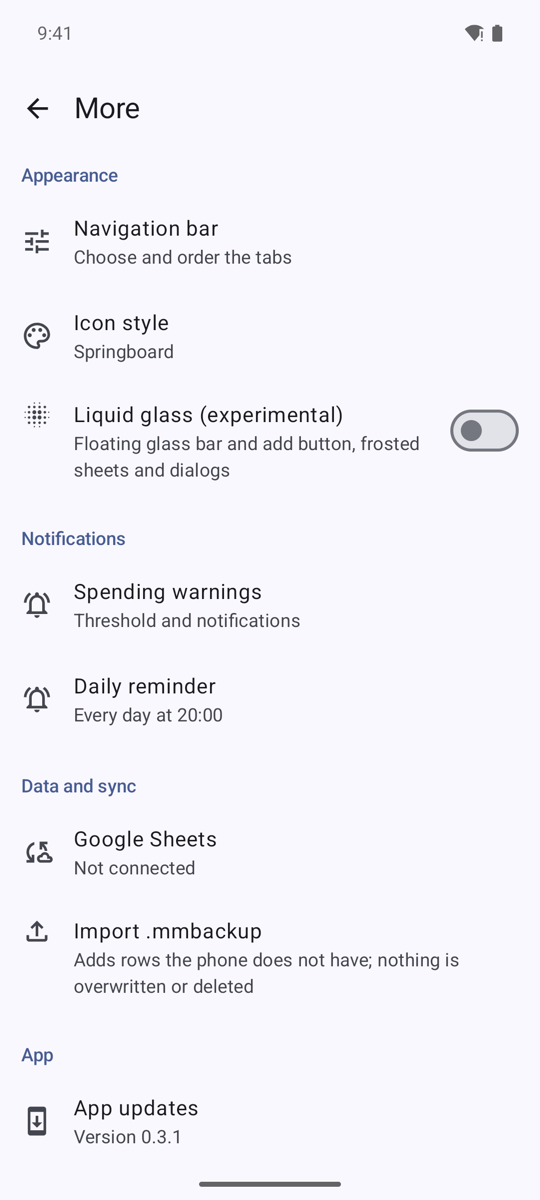
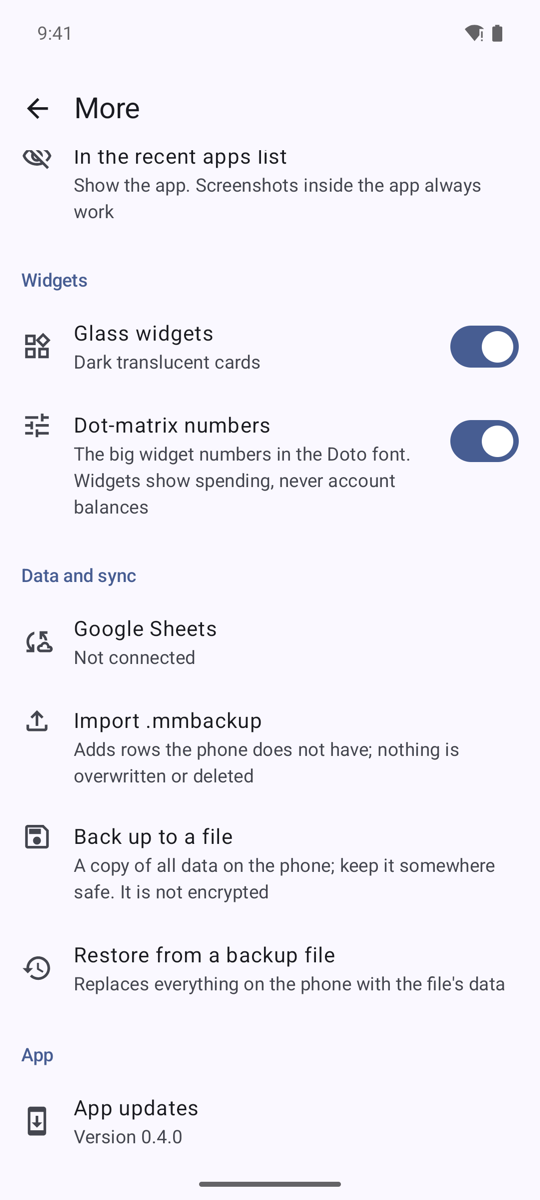
docs: cover 0.4.0 features and plan widget picker previews (#15)
* docs(features): add 0.4.0 summary and the widget picker preview plan

* docs: note the phone-only wealth data and the file backup

* docs: add 0.4.0 screenshots and the demo wealth seed

* docs(readme): cover wealth tools, widgets, app lock and file backup

* docs(wiki): add wealth, widgets and privacy pages and refresh the rest for 0.4.0

diff --git a/docs/FEATURES.md b/docs/FEATURES.md
@@ -65,7 +65,7 @@ Android 16 notes: `POST_NOTIFICATIONS` runtime permission and exact alarms (`SCH
 |---|---|---|
 | `.mmbackup` one-time import | must | Milestone 3. |
 | Google Sheets sync | must | Milestone 6 built; "Sync now" and a weekly background sync built (milestone 7, partly): see docs/SYNC_DESIGN.md. Apps Script `onEdit` and the conflict log are not built. |
-| Local DB backup / restore | must | Milestone 8; plan in "Planned, not built" item 4. |
+| Local DB backup / restore | must | **BUILT** in 0.4.0 (More -> Back up to a file / Restore from a backup file); weekly folder backup and the 30-day warning are not. Plan and status: "Planned, not built" item 4. |
 | Multi-currency (KZT, USD), stored rates | must | `rates` table has 3 rows; how they should feed totals is unverified. |
 
 ## Milestone 5 as built (verified on the emulator with the real backup)
@@ -133,6 +133,18 @@ Android 16 notes: `POST_NOTIFICATIONS` runtime permission and exact alarms (`SCH
 - (original request) Redraw all category/account icons from scratch (original art). Colors derive from the Material 3 scheme / chosen accent,
   with enough chroma and hue spread that categories stay easy to tell apart.
 
+## Version 0.4.0 at a glance (2026-11-04)
+What the release added on top of 0.3.1; details are in the sections named in brackets.
+- **Wealth** (More -> Wealth): net worth with history chart, manual assets and loans, goals, bond portfolio with coupon schedule, monthly money (income and payments) with a health summary, and a net-worth projection. [Wealth tools]
+- **Compound interest** (More -> Compound interest, or the button on Wealth): balance and year-by-year chart, monthly or yearly capitalization, contribution at the start or end of the month. [Wealth tools]
+- **Currency switch and bank rates**: Wealth and Compound show amounts in KZT, USD, EUR, RUB and more, using National Bank of Kazakhstan rates (one request a day, cached). [Wealth tools]
+- **Cross-currency transfers**: "Amount received" is filled in from the rates and stays editable. [Wealth backend as built]
+- **App lock**: PIN (4-6 digits, back-off), optional fingerprint/face, auto-lock delay, recent-apps privacy. [item 1]
+- **Charts drill-down**: tap a category row to see its operations in the selected period, tap one to edit. [item 2]
+- **Home-screen widgets** (7, Glance): Month at a glance, Today, Quick add, Category limits, Month by category, Recent operations, Month dashboard; glass or solid look, optional dot-matrix numerals. Never show account balances. [item 3]
+- **Back up to a file / Restore from a backup file**, plus an automatic copy before an in-app update. [item 4]
+- Not covered by the Google Sheet: the wealth tables are phone-only (see the notes in "Wealth backend as built"); the file backup covers them.
+
 ## Wealth tools (owner request, 2026-11-04), backend first, UI mock-ups to choose a style
 Beyond expense tracking: the app becomes a general personal-finance tool. Owner's picks, in build order. All of it is local; the only new
 network call is the daily rate fetch.
@@ -186,6 +198,19 @@ Code in `data/wealth/`, schema 2 -> 6 (one migration per step, each tested). All
 Built: Month at a glance 2x2, Today 2x2, Quick add 2x1, Limits 4x2, Month by category (Budget) 4x4, Recent operations 4x4, Month dashboard 4x6; More -> Widgets: glass or solid look, Doto numerals on/off; refreshed after every saved change and every 30 min.
 Doto is drawn into a bitmap (Glance cannot set a custom font); the tenge sign and all small text stay in the system font. Seen working on an Android 16 emulator: only Month at a glance was placed and looked at (Doto digits render, glass card readable over a light and a dark wallpaper). **Not yet looked at**: the other six, the solid look, and everything on the Nothing 3a itself.
 Known gaps: the picker shows the app icon instead of a preview (no preview layout or generated preview yet); on the emulator's launcher the 4x6 dashboard is offered as 1x1 (its grid has no room for 6 rows: the Nothing launcher may differ); tapping an operation row is wired to open its edit screen but was never tried; no "hide when locked" (not needed: no balances are shown).
+
+#### Widget picker preview (planned, not built)
+Today the picker shows the app icon (or a blank tile) for all seven widgets, so the owner cannot tell "Month at a glance" from "Month by category" before placing one. Goal: each entry in the widget picker shows what the widget really looks like, in the glass or solid look the owner chose.
+Checked in the Android docs on 2026-11-04 ([enhance widgets](https://developer.android.com/develop/ui/views/appwidgets/enhance), [Glance: create an app widget](https://developer.android.com/develop/ui/compose/glance/create-app-widget), [generated previews](https://developer.android.com/develop/ui/compose/glance/generated-previews)):
+- Three mechanisms, newest first. **Generated preview** (Android 15 and later): override `GlanceAppWidget.providePreview` with the same composable the widget draws, fed with sample data, and publish it with `GlanceAppWidgetManager.setWidgetPreviews`. It is a push API with no callback from the system, so the app decides when to call it, and it is rate limited (about two calls an hour by default). `compileSdk` must be 35 or higher (the project is on 37). **`previewLayout`** (Android 12 and later): a static XML layout drawn at the widget's default size. **`previewImage`**: a static drawable, the only option on Android 11 and lower, and the fallback on Android 15+ when no generated preview exists.
+- The owner's phone runs Android 16 and 17, so **generated previews are the target**, with a `previewImage` per widget as the fallback the docs recommend.
+- Plan:
+  1. Give every `res/xml/widget_*_info.xml` a `previewImage` (a PNG per widget, rendered from the real composables with demo data and checked in) and a `description` string, so the picker never shows the bare app icon.
+  2. In `Widgets.kt`, override `providePreview` for each widget to draw the real UI from a fixed sample `WidgetData` (no real amounts: the sample is fictional, which also keeps the "no balances on the home screen" rule). Reuse the existing UI composables, not a second copy.
+  3. Set `previewSizeMode` to `SizeMode.Responsive` with the widget's default size (and one larger breakpoint for the 4x6 dashboard), otherwise Android renders only what fits the minimum size and parts of the widget go missing.
+  4. Call `setWidgetPreviews` when the app starts and after the look changes (More -> Glass widgets / Dot-matrix numbers), at most once per change because of the rate limit, and ignore the call on Android 14 and lower.
+- Unverified: whether the Glance version in `libs.versions.toml` (1.2.0 when the widgets were built) already has `providePreview` and `setWidgetPreviews`, and whether the Nothing launcher shows generated previews at all. Check both before starting. Also unknown: how the Doto bitmap numerals behave in a preview (they are drawn into a bitmap, see above), which may need the same size-bucket care the docs describe for bitmaps.
+- Tests: the sample data function is plain Kotlin with a unit test (no balances, all seven widgets produce content); the look is checked by adding each widget from the picker on the emulator, then on the phone.
 
 **What the internet says** (checked 2026-11-04):
 - Nothing publishes **no widget SDK or design guide for third-party apps**. Its developer programme covers Glyph (`GlyphMatrix-Developer-Kit`), which is the back LEDs, not home-screen widgets. A request for a widget design manual sits unanswered on Nothing's community forum.

diff --git a/README.md b/README.md
@@ -40,7 +40,7 @@ Your data lives in a local database on the phone; the optional Google Sheet is a
 - Search.
 
 **Charts and forecast**
-- General (income / expenses / profit or loss), Expenses and Income stacked by category, by day / week / month / year.
+- General (income / expenses / profit or loss), Expenses and Income stacked by category, by day / week / month / year. Tap a category row to see its operations in that period and tap one to edit it.
 - **Forecast**: projected month-end spending, overall and per category, from the run-rate (spent so far ÷ days elapsed × days in month) with the 3-month average next to it.
 - **Limit warnings** on Home and as notifications when a projection exceeds a category's limit (threshold configurable).
 
@@ -48,10 +48,33 @@ Your data lives in a local database on the phone; the optional Google Sheet is a
 - Daily reminder at a time you choose (default 20:00): "enter today's spending".
 - Spending-warning notifications, one per month, category and level.
 
+**Wealth tools** (More → Wealth, More → Compound interest)
+- Net worth over time: accounts, bonds and manual assets minus loans, with a history chart; goals with the monthly amount needed to arrive on time.
+- Bond portfolio: coupon schedule, current yield, yield to maturity, maturity ladder.
+- Monthly money: income and regular payments, what is left to save, savings rate, months of expenses covered, and a net-worth projection.
+- Compound interest calculator with a year-by-year chart (monthly or yearly capitalization, contribution at the start or end of the month).
+- Amounts can be shown in KZT, USD, EUR, RUB and more, using National Bank of Kazakhstan rates (one request a day, cached). Cross-currency transfers fill in "Amount received" from the same rates.
+
+<p align="center">
+<img src="docs/screenshots/wealth.png" width="19%" alt="Wealth">
+<img src="docs/screenshots/wealth-bonds.png" width="19%" alt="Bond portfolio">
+<img src="docs/screenshots/wealth-health.png" width="19%" alt="Monthly money and projection">
+<img src="docs/screenshots/compound-interest.png" width="19%" alt="Compound interest">
+<img src="docs/screenshots/charts-drilldown.png" width="19%" alt="Charts drill-down">
+</p>
+
+**Home-screen widgets**
+- Seven widgets: Spent this month, Spent today, Quick add, Category limits, Month by category, Recent operations, Month dashboard.
+- Glass or solid look, optional dot-matrix numerals (More → Widgets). Widgets show spending, never account balances.
+
+**Privacy and backup**
+- App lock with a 4–6 digit PIN, optional fingerprint or face unlock, auto-lock delay, and control over what the recent-apps list shows.
+- **Back up to a file** and **Restore from a backup file** copy the whole database, wealth data included.
+
 **Data and sync**
 - One-time import of a `.mmbackup` backup file; re-importing never undoes later phone edits.
 - **Google Sheets sync** (pull, then push) by hand or weekly in the background. The app only reaches the sheet it created (`drive.file` scope).
-- Updates from GitHub releases inside the app, with release notes.
+- Updates from GitHub releases inside the app, with release notes; the app saves a copy of your data first.
 
 **Look and feel**
 - Material 3 with the system accent color and dark mode, original icon artwork in three styles, customizable bottom bar and Home cards, swipe between tabs, optional experimental "liquid glass" look.
@@ -73,6 +96,9 @@ Your data lives in a local database on the phone; the optional Google Sheet is a
 5. **Set limits.** *More → Categories →* a category *→ Planned outlay per month*. Forecast and warnings start working from that.
 6. **Get a reminder.** *More → Daily reminder*, switch on and pick a time. Allow notifications when asked.
 7. **Use it on a PC.** *More → Google Sheets*: **Connect Google**, then **Create or refresh the sheet**. After that, **Sync now** or leave the weekly sync on. One-time Google Cloud setup: [docs/GOOGLE_SETUP.md](docs/GOOGLE_SETUP.md).
+8. **Track your wealth.** *More → Wealth*: add what you own and owe (*Where it is → Add*), goals, bonds, and your monthly income and payments. *More → Compound interest* for a quick what-if.
+9. **Add a widget.** Long-press the home screen, choose *Widgets*, find *Money Tracker* and pick one. Look and numerals: *More → Widgets*.
+10. **Lock and back up.** *More → Privacy → App lock* to set a PIN. *More → Data and sync → Back up to a file* saves the whole database; keep the file somewhere safe (it is not encrypted). *Restore from a backup file* puts it back.
 
 More detail (screens, tips, FAQ) is in the wiki pages under [docs/wiki](docs/wiki/Home.md).
 
@@ -85,6 +111,7 @@ python tools/make_demo_backup.py data/demo/demo.mmbackup --today 2026-11-04
 ```
 
 Copy it to the phone or emulator and import it from *More*. `data/` is git-ignored.
+The wealth screens are phone-only data and are not part of that file. For their screenshots, [tools/demo_wealth.sql](tools/demo_wealth.sql) holds a fictional seed (a flat, a loan, goals, two bonds, a monthly net-worth history). Apply it with `sqlite3` to a copy of a debug build's database (stop the app, move the file in and out with `adb exec-out run-as dev.yernur.moneytracker cat databases/moneytracker.db`), then put it back.
 
 ## Build from source
 
@@ -96,7 +123,7 @@ export JAVA_HOME=/opt/homebrew/opt/openjdk@25 PATH=/opt/homebrew/opt/openjdk@25/
 ./gradlew testDebugUnitTest assembleDebug     # APK: app/build/outputs/apk/debug/app-debug.apk
 ```
 
-Stack: Kotlin, Jetpack Compose + Material 3, Room, WorkManager, hand-wired DI. Money is stored as `Long` minor units, never `Double`. No analytics and no network calls except Google auth and Sheets/Drive and the update check against GitHub.
+Stack: Kotlin, Jetpack Compose + Material 3, Room, WorkManager, hand-wired DI. Money is stored as `Long` minor units, never `Double`. No analytics and no network calls except Google auth and Sheets/Drive, the update check against GitHub, and one exchange-rate request a day to the National Bank of Kazakhstan.
 
 ## Documentation
 
@@ -112,4 +139,4 @@ Stack: Kotlin, Jetpack Compose + Material 3, Room, WorkManager, hand-wired DI. M
 
 ## Status
 
-Version 0.3.1. Unit tests and the debug build pass; the live Google round trip and the app on a physical phone are not yet verified. Not built: Apps Script `onEdit` stamping, sync conflict log, regular-payment reminders.
+Version 0.4.0. Unit tests and the debug build pass; the live Google round trip and the app on a physical phone are not yet verified. The wealth data lives on the phone only (it is not in the Google Sheet); use *Back up to a file* for it. Not built: Apps Script `onEdit` stamping, sync conflict log, regular-payment reminders, previews in the widget picker (planned, see [docs/FEATURES.md](docs/FEATURES.md)).

diff --git a/docs/wiki/Wealth-and-Compound-Interest.md b/docs/wiki/Wealth-and-Compound-Interest.md
@@ -1,0 +1,33 @@
+# Wealth and compound interest
+
+Open **More → Wealth** or **More → Compound interest**. You can also add *Wealth* to the bottom bar (*More → Navigation bar*).
+
+<img src="../screenshots/wealth.png" width="240" alt="Wealth"> <img src="../screenshots/wealth-bonds.png" width="240" alt="Bond portfolio"> <img src="../screenshots/wealth-health.png" width="240" alt="Monthly money and projection">
+
+Wealth data (assets, loans, goals, bonds, monthly money, net-worth history) is stored **on the phone only**. It is not in the Google Sheet. *More → Back up to a file* copies it. See [Privacy and backup](Privacy-and-Backup.md).
+
+## Net worth
+- The big card is your net worth: every account (also those hidden from the Total) + bonds at current value + manual assets − loans, with the change since the last snapshot and a history line. A snapshot is taken once a day.
+- A snapshot is skipped while a currency has no rate, so a missing rate never looks like a loss.
+- **Where it is → Add**: manual assets (a flat, a car) and loans, each with a currency and a value you update by hand.
+- Tip: if a broker account is both an app account and listed as bonds, it counts twice. Use one of the two.
+
+## Currency
+The currency button (top right) switches the whole screen between KZT, USD, EUR, RUB and others. Rates come from the National Bank of Kazakhstan, fetched **once a day** and cached, so it also works offline. Stored amounts stay in KZT or in their own currency; only the display changes. The choice is remembered.
+
+## Goals
+**Goals → Add**: a title, a target amount and a date, optionally tied to one account. The bar shows progress, and the line below says how much to put aside each month to arrive on time (for example "₸450,000 a month to reach ₸3,000,000 in 3 months").
+
+## Bond portfolio
+**Bond portfolio → Add**: title, currency, face value, number of pieces, total price paid, coupon rate, coupons per year, maturity date and (optionally) the current value. You see value, coupons per year, current yield, an estimated yield to maturity, and a year-by-year ladder of coupons and redemptions. Prices are typed in by hand (no live quotes). Yield to maturity ignores accrued interest, tax and fees: treat it as an estimate.
+
+## Monthly money
+**Monthly money → Add**: your income and regular payments (mortgage, loans, subscriptions). Tick "already in my expenses" for a payment you record in the ledger, so it is not counted twice. You get:
+- **Free each month** and **Savings rate**.
+- Average spending (last 3 full months; transfers and balance corrections are not counted), payments as a share of income, and how many months your savings cover.
+- **Where this heads**: net worth in 5, 10 or 20 years, with 0%, 50% or 100% of the free money invested.
+
+## Compound interest calculator
+<img src="../screenshots/compound-interest.png" width="240" alt="Compound interest">
+
+Enter a start balance, an amount each month, a yearly rate and a number of years. Choose whether interest is added **monthly** or **yearly**, and whether the contribution is paid at the **start** or **end** of the month. The result card shows the final balance, how much you put in and how much is interest; the chart shows each year.

diff --git a/docs/wiki/Settings.md b/docs/wiki/Settings.md
@@ -4,17 +4,21 @@
 
 | Section | Setting | What it does |
 |---|---|---|
+| Wealth | Wealth, Compound interest | See [Wealth and compound interest](Wealth-and-Compound-Interest.md) |
 | Manage | Categories, Tags | Edit the lists |
 | Home | Home layout | Choose and order Home cards (warnings, balance, income and expenses, top spending, latest entries); totals can cover a day, week, month or year |
 | Home | Show "All accounts" on Home | Extra figure under the balance (off by default) |
 | History | History opens on | Day, Week, Month or Year |
-| Appearance | Navigation bar | 2 to 5 tabs from Home, History, Charts, Accounts, Categories, Tags; reorder with arrows; the first tab opens with the app |
+| Appearance | Navigation bar | 2 to 5 tabs from Home, History, Charts, Accounts, Categories, Tags and Wealth; reorder with arrows; the first tab opens with the app |
 | Appearance | Icon style | Three looks for category and account icons |
 | Appearance | Liquid glass (experimental) | Floating glass bar and button, frosted sheets; needs Android 13+, off by default |
 | Notifications | Spending warnings | Warn at % of a limit, notifications on/off |
 | Notifications | Daily reminder | Switch and time (default 20:00) |
+| Privacy | App lock, fingerprint or face, Lock after, In the recent apps list | See [Privacy and backup](Privacy-and-Backup.md) |
+| Widgets | Glass widgets, Dot-matrix numbers | Look of the [home-screen widgets](Widgets.md) |
 | Data and sync | Google Sheets | See [Google Sheets sync](Google-Sheets-Sync.md) |
 | Data and sync | Import .mmbackup | Add rows from a `.mmbackup` file |
+| Data and sync | Back up to a file, Restore from a backup file | Copy all data to a file and back ([Privacy and backup](Privacy-and-Backup.md)) |
 | App | App updates | Check, download and install the latest release |
 
 Swipe left or right on a tab screen to move to the neighbouring tab. Colors follow the system accent and dark mode.

diff --git a/docs/wiki/Privacy-and-Backup.md b/docs/wiki/Privacy-and-Backup.md
@@ -1,0 +1,26 @@
+# Privacy and backup
+
+## App lock (More → Privacy)
+<img src="../screenshots/more-data.png" width="240" alt="More, lower part">
+
+- **App lock**: set a 4–6 digit PIN. After wrong tries the app makes you wait (30 s, 1 min, 5 min, ...). The PIN is stored only as a salted hash.
+- **Unlock with fingerprint or face**: shown only when the phone has an enrolled strong biometric. The PIN always works as a fallback.
+- **Lock after**: how long the app may be out of sight before it asks again.
+- **In the recent apps list**: show the app normally, blur it, or hide it. Screenshots inside the app always work.
+- There is no server, so a **forgotten PIN cannot be reset**. The way out is to clear the app's data and restore a backup file (or sync from the sheet), so keep one.
+
+## Back up to a file (More → Data and sync)
+1. Tap **Back up to a file**.
+2. Choose where to save it in the system file picker (Downloads, Drive, a USB drive). The file is named `moneytracker-YYYY-MM-DD.db`.
+3. Keep it somewhere safe: **it is not encrypted**, and it holds all your data, including the wealth tables, which the Google Sheet does not.
+
+## Restore from a backup file
+1. Tap **Restore from a backup file** and pick a file.
+2. The app checks it and shows what is inside. Confirm with **Restore**.
+3. **Everything on the phone is replaced** by the file's data.
+
+## Before an update
+When you install an update from inside the app, it first saves an automatic copy of your data. If Android refuses the update, the message points you to that copy instead of telling you to reinstall from scratch.
+
+## Back up often enough
+The Google Sheet is a second copy of ledger data only. A weekly folder backup and a "last backup is old" reminder are planned but not built, so make a file backup after big changes.

diff --git a/docs/wiki/Widgets.md b/docs/wiki/Widgets.md
@@ -1,0 +1,28 @@
+# Widgets
+
+Seven home-screen widgets show your spending at a glance. **They show spending, never account balances.**
+
+## Add one
+1. Long-press an empty spot on the home screen and choose **Widgets**.
+2. Find **Money Tracker** and pick a widget.
+3. Drag it where you want it. Tap it to open the matching screen.
+
+| Widget | Default size | Shows |
+|---|---|---|
+| Spent this month | 2×2 | Spending this month against the forecast, with a limit-warning dot |
+| Spent today | 2×2 | Today's spending and the last operations |
+| Quick add | 2×1 | Buttons to add an expense, income or transfer |
+| Category limits | 4×2 | The top categories as bars against their limits |
+| Month by category | 4×4 | The month's stacked category bar and top categories |
+| Recent operations | 4×4 | The latest operations with their category icons |
+| Month dashboard | 4×6 | Totals, chart, limits and recent operations in one card |
+
+## Settings (More → Widgets)
+- **Glass widgets**: dark translucent cards. Off gives solid cards.
+- **Dot-matrix numbers**: the big numbers in the Doto font. Small text stays in the system font.
+
+Widgets refresh after every change you save and every 30 minutes.
+
+## Known limits
+- The widget picker shows the app icon instead of a preview of each widget. Previews are planned (see *Widget picker preview* in [docs/FEATURES.md](../FEATURES.md)).
+- Only the *Month at a glance* widget has been looked at on an emulator; the others and the phone itself are not yet checked. On some launchers the tall dashboard is offered smaller than 4×6.

diff --git a/docs/wiki/FAQ.md b/docs/wiki/FAQ.md
@@ -1,6 +1,6 @@
 # FAQ
 
-**Is my data sent anywhere?** Only if you connect Google Sheets, and then only to the sheet the app created. There are no analytics or ads. The update check contacts GitHub.
+**Is my data sent anywhere?** Only if you connect Google Sheets, and then only to the sheet the app created. There are no analytics or ads. The app also contacts GitHub (update check) and the National Bank of Kazakhstan (one exchange-rate request a day); no personal data goes in either request.
 
 **Which Android versions work?** Android 16 (API 36). Older versions are not supported.
 
@@ -17,3 +17,13 @@
 **An entry has no category.** It is a balance correction (see [Entering data](Entering-Data.md)).
 
 **Where are regular payments (mortgage etc.)?** Not built yet; the importer reads them but there is no screen.
+
+**I forgot my PIN.** There is no reset (no server). Clear the app's data in Android settings and restore a backup file ([Privacy and backup](Privacy-and-Backup.md)).
+
+**Is my wealth data in the Google Sheet?** No, it is on the phone only. *Back up to a file* copies it.
+
+**Do widgets show my balances?** No. They show spending only, by design.
+
+**Why does the widget picker show the app icon?** Previews are planned but not built yet ([Widgets](Widgets.md)).
+
+**The exchange rates look old.** Rates are fetched once a day when the phone is online and cached; the Wealth screen says when they were last updated.

diff --git a/docs/SYNC_DESIGN.md b/docs/SYNC_DESIGN.md
@@ -44,6 +44,7 @@
 - `lastSyncAt` (UTC, set when a push finishes; stamped from the start of that push) decides who wins in the pull: a phone row whose `modified`
   is later than it is kept, including phone-side deletes; otherwise the sheet wins. With no `lastSyncAt` (first sync, or after "Forget this sheet")
   the run **only pushes**, so an old sheet can never overwrite phone edits.
+- Not synced: the wealth data (manual assets and loans, goals, bonds, monthly money, net-worth history, version 0.4.0) lives on the phone only and has no tab in the sheet. Back it up with More -> Back up to a file, which copies the whole database.
 - Known limits: a push rewrites whole tabs (a dropped connection can leave the sheet empty until the next run); a row deleted on the PC without
   a `_deleted` entry comes back on the next push; edits made in the sheet before the very first sync are overwritten by it; no conflict log yet;
   the Apps Script `onEdit` stamping (`/sheets/Code.gs`) is not built. Unverified against live Google; covered with a fake transport

diff --git a/CLAUDE.md b/CLAUDE.md
@@ -63,7 +63,7 @@ Not known: reports/charts, budgets UI, recurring items, widgets, search, filters
    (fake network, real-backup totals vs snapshot); the live Google round trip needs the owner's Cloud OAuth client: docs/GOOGLE_SETUP.md.
 7. Two-way sync + Apps Script `onEdit` stamping (`/sheets/Code.gs`) + conflict log. PARTLY BUILT: "Sync now" and a weekly WorkManager job
    (pull, then push; phone edits since the last sync win; first sync pushes only). Apps Script and the conflict log are not built. See docs/SYNC_DESIGN.md.
-8. Polish, backup/restore of the local DB, release APK signed with the owner's local keystore (sideload).
+8. Polish, backup/restore of the local DB, release APK signed with the owner's local keystore (sideload). Backup/restore to a file BUILT in 0.4.0 (with app lock, widgets, wealth tools: see docs/FEATURES.md "Version 0.4.0 at a glance").
 
 ## Verification rules (the owner values checkable work)
 - Every claim about the backup format or Google APIs is checked against the actual file or current docs.

diff --git a/docs/wiki/Google-Sheets-Sync.md b/docs/wiki/Google-Sheets-Sync.md
@@ -17,5 +17,8 @@ Keeps a copy of your data in a Google Sheet you can open on a computer. The app 
 - Afterwards a row you changed or deleted on the phone since the last sync is never overwritten; otherwise the sheet's version wins.
 - The `Transactions` tab keeps its column order (Date, Type, Account, Category, Tags, Amount, Currency, Net, Comment, Created, Modified, UID) so existing formulas keep working. Amounts are decimals, not minor units.
 
+## What is not in the sheet
+The wealth data (assets, loans, goals, bonds, monthly money, net-worth history) lives on the phone only. Use *More → Back up to a file* for it ([Privacy and backup](Privacy-and-Backup.md)).
+
 ## Known limits
 A push rewrites whole tabs (a dropped connection can leave the sheet empty until the next run); a row deleted on the PC without a `_deleted` entry comes back; there is no conflict log yet. Details: [docs/SYNC_DESIGN.md](../SYNC_DESIGN.md). The live Google round trip is not yet verified.

diff --git a/docs/wiki/Entering-Data.md b/docs/wiki/Entering-Data.md
@@ -16,7 +16,7 @@ Tap **+** (bottom right of Home and History).
 The calculator icon in the amount field opens a keypad: `C`, smart parentheses, `%`, `÷ × − +`, decimals, backspace, `=` and a live preview. Percent works like the phone's calculator: `1000 + 10%` = 1100, `200 × 10%` = 20. **Use result** puts it in the field. Results round to cents.
 
 ## Transfer
-Choose **Transfer**, pick From and To accounts, amount, date and comment. Between accounts in different currencies the two amounts can differ.
+Choose **Transfer**, pick From and To accounts, amount, date and comment. Between accounts in different currencies the two amounts can differ: **Amount received** is filled in from the sent amount with the bank rates and stays editable (type your own figure to keep it; clear the field to get the calculation back).
 
 ## Edit or delete
 Open **History**, tap an entry, change it and save, or use the trash icon at the top to delete (with confirmation).

diff --git a/docs/wiki/Home.md b/docs/wiki/Home.md
@@ -10,6 +10,9 @@ Personal Android expense tracker: quick entry, charts, forecasts with limit warn
 | [Entering data](Entering-Data.md) | Expenses, income, transfers, calculator, editing, balance overwrite |
 | [Accounts, categories, tags](Accounts-Categories-Tags.md) | Setting up your structure and monthly limits |
 | [History, charts, forecast](History-Charts-Forecast.md) | Reading your spending and the warnings |
+| [Wealth and compound interest](Wealth-and-Compound-Interest.md) | Net worth, goals, bonds, monthly money, calculator |
+| [Widgets](Widgets.md) | Home-screen widgets |
+| [Privacy and backup](Privacy-and-Backup.md) | App lock, file backup and restore |
 | [Google Sheets sync](Google-Sheets-Sync.md) | Use your data on a computer |
 | [Settings (More)](Settings.md) | Home layout, navigation bar, icon style, reminders |
 | [FAQ](FAQ.md) | Common questions and limits |
